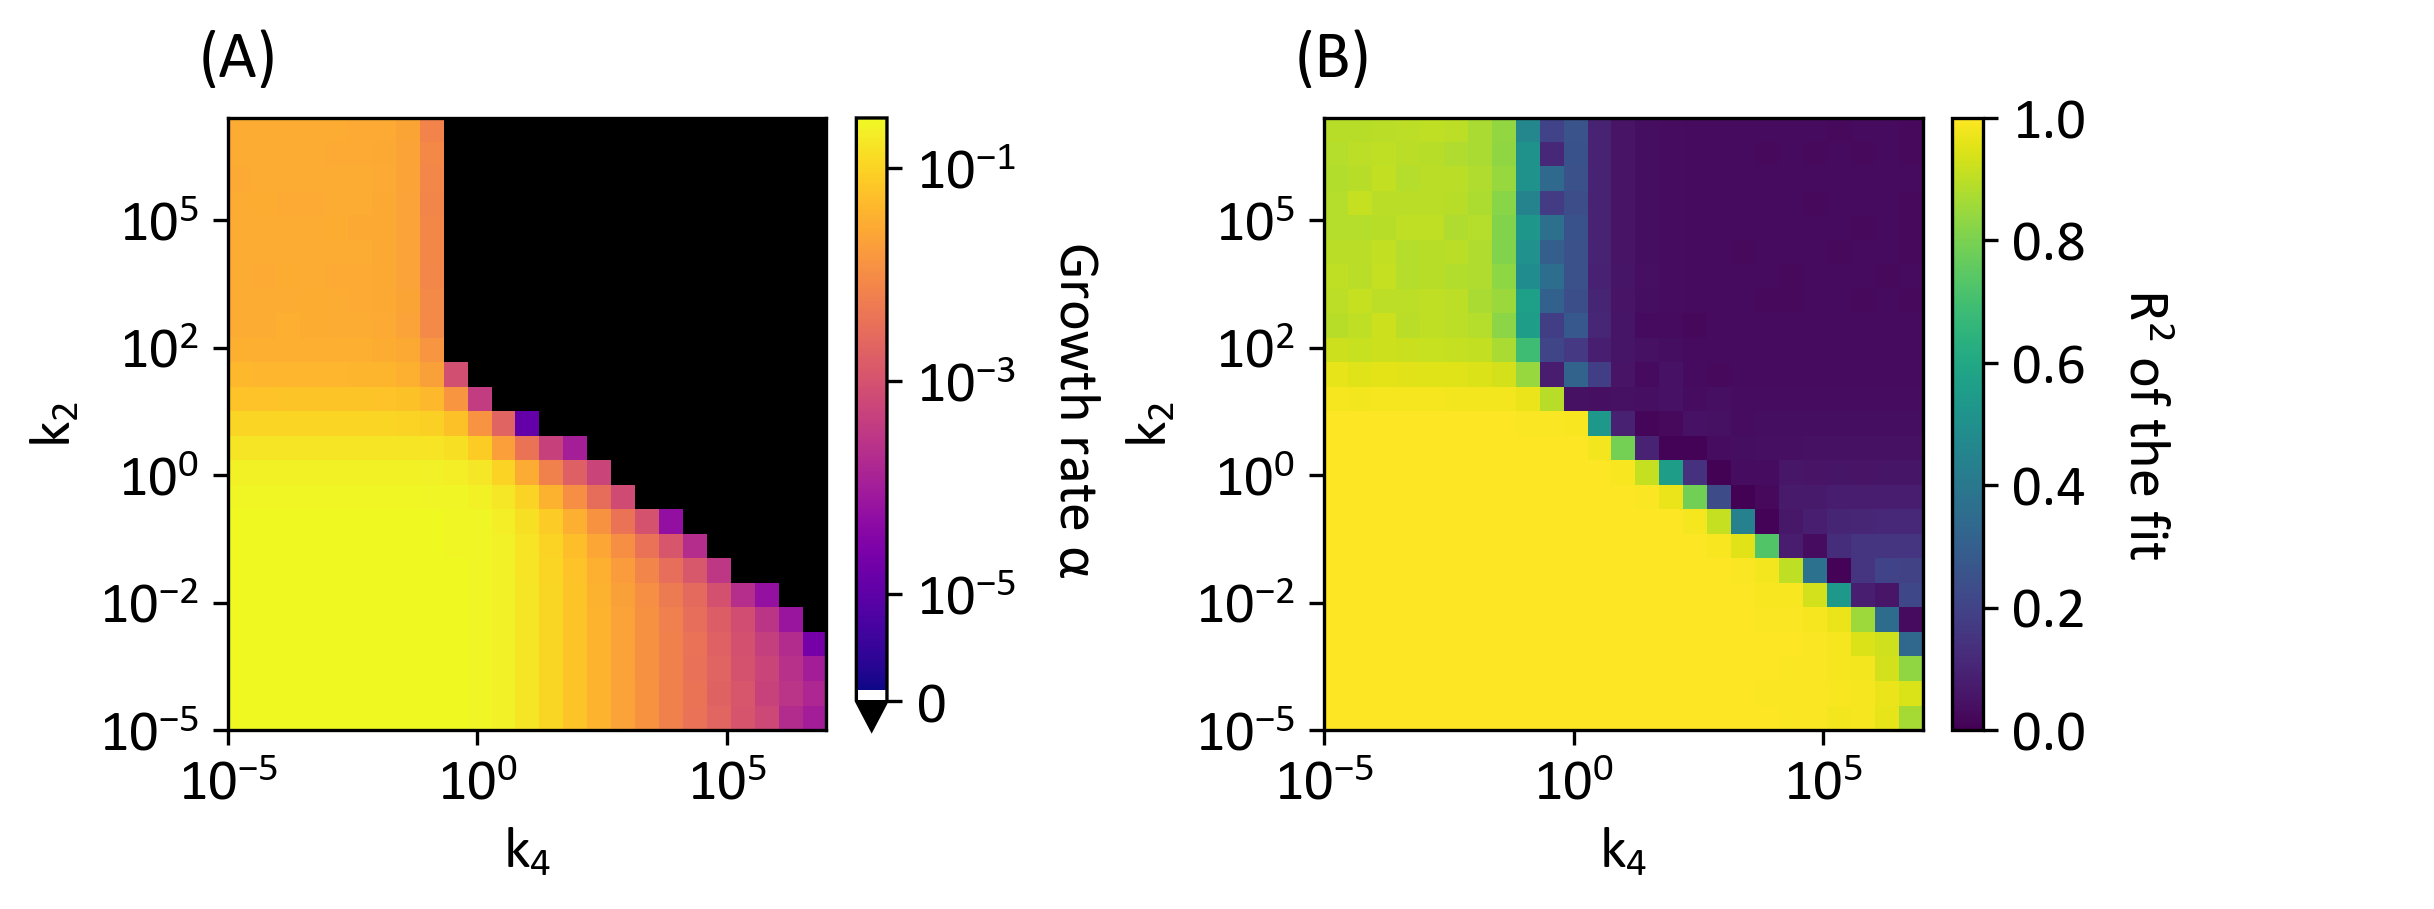
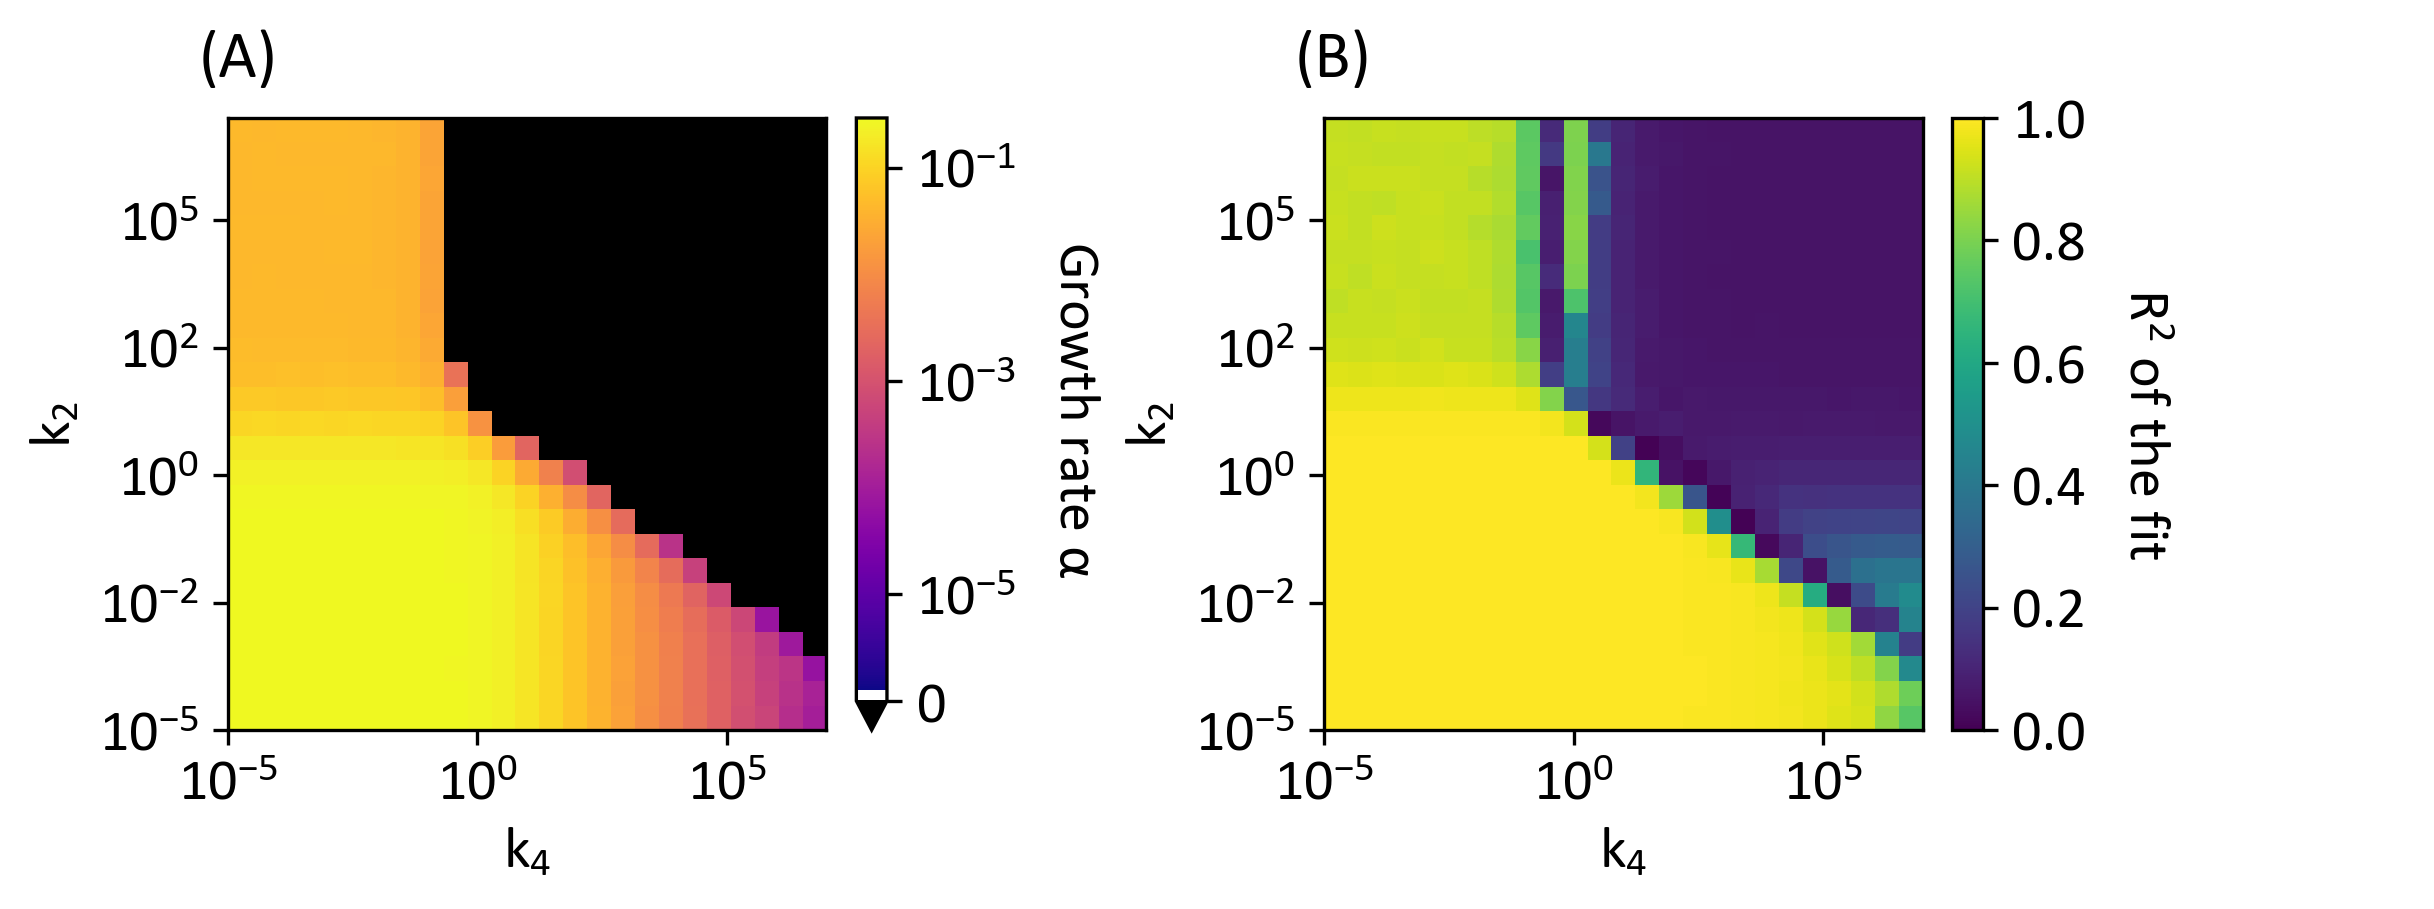
change of parameters

diff --git a/simulations/k_sweep_2d_pkl_generator.py b/simulations/k_sweep_2d_pkl_generator.py
@@ -82,7 +82,7 @@ def main():
     # Base parameters
     base_k = [1.0] * 8
     V_init = 1000.0
-    iterations = int(1e5)
+    iterations = int(2e5)
     threshold = None
     
     # Standard initial conditions for autocat
@@ -92,7 +92,7 @@ def main():
     
     # --- DEFINE THE 2D SWEEP ---
     k_change = np.logspace(-5, 7, 25)
-    replicates_per_condition = 5
+    replicates_per_condition = 1
     
     # Target indices in the 'k' array 
     # for k2 and k4 keep the following lines
